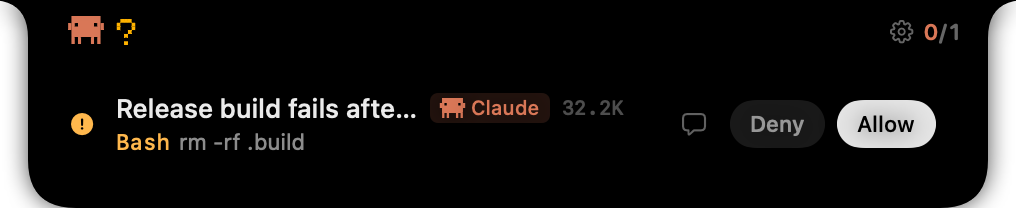
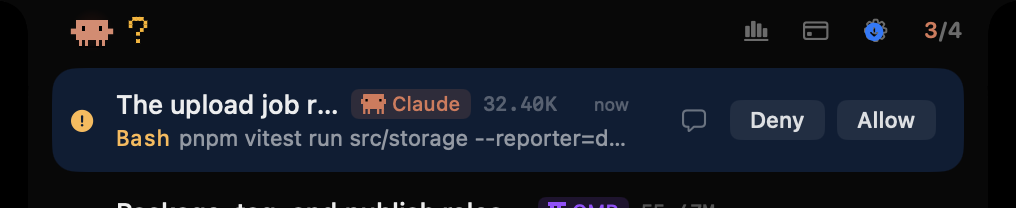
docs: README 截图按现行界面重拍（含中英两版）
上一批图是 2026-09-20~28 拍的，画的还是「面板顶部横向分段条」那一代设置界面、
头部只有一枚齿轮、统计页没有模型榜 —— 与现在的竖排侧栏 / 三枚头部按钮 / 模型拆分
完全不符。本轮在本机内置刘海屏上重拍（外接屏没有刘海），中英各一套：

- notch-sessions(.zh)：会话列表（含 Claude 演示会话）
- notch-settings(.zh)：竖排侧栏 5 项（通用/行为/通知/智能体/关于）+ General 页
- notch-stats(.zh)：读数面（总量 / 智能体 / 模型 / 趋势）
- notch-chat：完整对话（Markdown + Edit 差异卡 + Write/Bash 结果）
- notch-approval：列表内的待批行（Deny / Allow 就地决策）
- notch-closed：完整胶囊（左侧像素角色 + 右侧计数）

顺带把两处与实现不符的描述改掉：统计页「整页一次看全、不需要滚动」在数据多时
不成立（实测内容高于面板，页面可滚动）；聊天/统计两张图的 alt 文案改为描述图里
实际看得到的东西（子代理、工具榜都在裁剪范围外）。

素材是合成演示会话（真实 Claude 记录格式，英文内容），不是用户真实会话内容。

diff --git a/README.md b/README.md
@@ -52,7 +52,7 @@ The notch is the one strip of the screen you never leave. AgentIsland makes it t
 
 **Chat history, rendered.** The full conversation with Markdown, tool call cards with their results, subagent runs inline, and the question when a tool is waiting for your input.
 
-![The chat view: Markdown, tool calls and subagents](docs/images/notch-chat.png)
+![The chat view: Markdown, tool calls and their results](docs/images/notch-chat.png)
 
 **Works with or without the integration.** Sessions are discovered by reading each agent's own records — JSONL transcripts (Claude Code, Qoder, Factory, CodeBuddy, WorkBuddy, Codex, Gemini, Cursor, Copilot, Kimi, Cline, Grok), or the SQLite stores of OpenCode and Hermes — and status is inferred from the transcript. Trae, Trae CLI and DSH have no readable records and rely on their integration (DSH on the external [dsh-island](https://github.com/cdxiaodong/dsh-island) plugin). Installing the integration adds live events immediately, and on `omp`/`pi` it is what makes the approval gate possible.
 
@@ -62,7 +62,7 @@ The notch is the one strip of the screen you never leave. AgentIsland makes it t
 
 ## Usage stats
 
-![Usage stats: totals, per-agent split, trend and tools](docs/images/notch-stats.png)
+![Usage stats: totals, per-agent and per-model split, and the trend chart](docs/images/notch-stats.png)
 
 The page lives in the panel's **Statistics** page (the chart button in the panel header jumps straight to it) and reads the same records the chat view does, keeping only aggregate counters in its own store. Totals include cached tokens (hit rate = cache read / (input + cache read + cache write)); session counts exclude subagents. The index runs in the background on first open, and the page reports when it last indexed. The ↻ **Rescan** button beside the range switch re-reads every session record and recomputes the numbers — the background pass only reads the tail of each record, so this is the way to fix totals that look off.
 
@@ -164,7 +164,7 @@ The rail on the left carries the **four configuration pages** (General, Behavior
 |**Notifications**|Notification sound (clicking a sound plays it), volume, quiet hours, sound scope (ready only / ready and approvals), completion badge. The list also carries your own sounds from `~/Library/Sounds`. Quiet hours silences the sound only — the notch still shows everything.|
 |**Agents**|Enable/disable and integration state for each agent; per-agent config root; tool-call guard scope and offline behavior. The first row is the entry to **Animations**. The agent list scrolls within its card.|
 |**Animations**|Every agent's pixel mascot side by side, with an activity picker (idle / working / needs approval) and a preview speed (still / 0.5× / 1× / 2×). Reached from the first row of the **Agents** card (the rail keeps Agents highlighted).|
-|**Statistics**|Token, session and tool-call totals, trends, per-agent/model breakdown, date range and full rescan. Reached from the chart button in the panel header; the whole page is visible without scrolling.|
+|**Statistics**|Token, session and tool-call totals, trends, per-agent/model breakdown, date range and full rescan. Reached from the chart button in the panel header; the page scrolls once there is a lot to show.|
 |**Quota**|A running balance per New API account — every account you add gets its own row; the server URL, API key, and optional access token / user ID are edited per account behind **Edit Credentials** in the action row (the list collapses to the account being edited). The card below the list shows the selected account's identity (whose token it is, its group), its key balance, and the instance address and version. Amounts follow the instance's own currency setting (e.g. `$350.27`, from its `quota_per_unit`), not raw quota units. Reached from the card button in the panel header; it fetches only while the page is open.|
 |**About**|Version, check for updates, automatic update checks, star on GitHub, keyboard shortcuts, quit.|
 

diff --git a/README.zh-CN.md b/README.zh-CN.md
@@ -52,7 +52,7 @@ tmux 里开两个 Agent，你就得在两个 pane 之间切来切去看谁在等
 
 **渲染出来的对话历史。** 完整会话内容：Markdown 渲染、工具调用卡片带结果、子代理运行内联显示；工具在等你回答时，问题也在这里。
 
-![对话页：Markdown、工具调用与子代理](docs/images/notch-chat.png)
+![对话页：Markdown、工具调用与结果](docs/images/notch-chat.png)
 
 **装不装集成都能用。** 会话通过读取 Agent 自己写的记录发现 —— JSONL 记录（Claude Code、Qoder、Factory、CodeBuddy、WorkBuddy、Codex、Gemini、Cursor、Copilot、Kimi、Cline、Grok），或 OpenCode 与 Hermes 的 SQLite 库 —— 状态从记录里推断。Trae、Trae CLI 与 DSH 没有可解析的记录，依赖各自的集成（DSH 依赖外部 [dsh-island](https://github.com/cdxiaodong/dsh-island) 插件）。装上集成立刻有实时事件，`omp`/`pi` 的审批闸门也依赖它。
 
@@ -62,7 +62,7 @@ tmux 里开两个 Agent，你就得在两个 pane 之间切来切去看谁在等
 
 ## 用量统计
 
-![用量统计：总量、按 Agent 拆分、趋势与工具榜](docs/images/notch-stats-zh.png)
+![用量统计：总量、按 Agent 与模型拆分、趋势图](docs/images/notch-stats-zh.png)
 
 统计页在面板的**统计**页里（头部图表按钮一点直达），读的是与对话页同一批记录，只把聚合计数留在应用自己的存储里。总量包含缓存 token（命中率 = 缓存读 /（输入 + 缓存读 + 缓存写））；会话数不计子代理。首次打开时在后台索引，页面会显示最近一次索引时间。范围切换右侧的 ↻ **重新统计**按钮会把每个 Agent 的记录从头重读一遍并重算已经统计过的数字——后台那轮只读记录的尾部，所以数字对不上时走这条。
 
@@ -164,7 +164,7 @@ AgentIsland 只碰各 Agent 自己的接入面：共用脚本 `~/.agent-island/h
 |**通知**|通知音效（点一下即听一声）、音量、安静时段、提示音范围（仅就绪 / 就绪与审批）、完成提示。列表里也会带上你放在 `~/Library/Sounds` 里的自带音效。安静时段只静音，刘海与卡片照常显示。|
 |**智能体**|逐 Agent 启用/关闭与集成状态、配置目录、工具调用保护范围和离线策略；卡片第一行是「标记动态」的入口（带轮播的角色缩略图）；Agent 列表在卡片内滚动。|
 |**标记动态**|19 个 Agent 的像素角色一次铺开（CodeBuddy 与 WorkBuddy 共用同一枚），可选活动状态（空闲 / 处理中 / 待审批）与预览速度（静止 / 0.5× / 1× / 2×）；从「智能体」卡片第一行进入（侧栏仍高亮「智能体」）。|
-|**统计**|Token、会话与工具调用总量、趋势、Agent/模型拆分、日期范围与全量重扫；从刘海顶部的图表按钮进入，整页一次看全、不需要滚动。|
+|**统计**|Token、会话与工具调用总量、趋势、Agent/模型拆分、日期范围与全量重扫；从刘海顶部的图表按钮进入（数据多时页面可滚动）。|
 |**额度**|每个 New API 账号一行余额 —— **可以配多个账号**，各账号的服务器地址、API 密钥与可选的访问令牌 / 用户 ID 都收在动作条的「编辑凭据」后面（编辑时列表折叠成正在编辑的那一行）。下面那张卡是选中账号的身份（这令牌属于谁、分组与倍率）、密钥额度，以及实例地址与版本。金额按实例自己的货币设置显示（如 `$350.27`，取自它的 `quota_per_unit`），不是原始额度单位；从刘海顶部的信用卡按钮进入，只在打开这一页时取数。|
 |**关于**|版本、检查更新、自动检查更新、在 GitHub 上加星、键盘快捷键、退出。|
 
